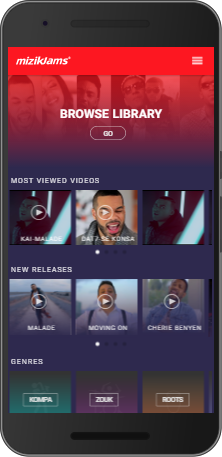
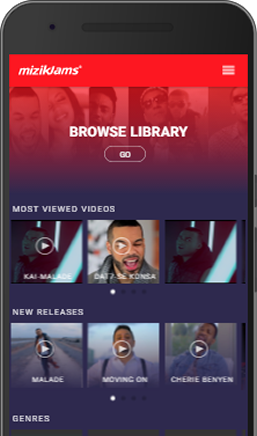
add viewcount

diff --git a/src/pages/main/main.ts b/src/pages/main/main.ts
@@ -22,10 +22,10 @@ export class MainPage {
  
   public  items:any[] = [];
   public  favorite: true;
-  public  video;
+  public  views:any;
   public  deep: true;
-  public  id:any;
-  public  likecount:number;
+  public  id:string;
+  public  heart:number;
   private pageSize: number = 20;
   private pageNumber: number = 1;
   private canLoadMore:boolean = true;
@@ -96,18 +96,30 @@ export class MainPage {
    }
 
 
+  public postViews(id) {
+        this.backandService.create('views',{ views: id }).subscribe(
+                data => {
+                   /*  add to beginning of array
+                    this.items.unshift({ id: null, name: this.name, description: this.description });
+                    console.log(this.items);*/
+                    this.views = id;
+                    console.log(this.views);
+                    //this.description = '';
+                },
+                err => this.backandService.logError(err),
+                () => console.log('OK')
+            );
+    }
 
-
-/*   postLikeCount(id, likecount){
-      this.backandService.update("videos",id).subscribe(
-        data => {
-          console.log(data);
-
-        },
-        err => this.backandService.logError(err),
-       () => console.log('OK')
-     );
-   }*/
+    public postLike(id, heart) {
+        this.backandService.update('videos',id,{ hearts: 2  }).subscribe(
+                data => {
+                 
+                },
+                err => this.backandService.logError(err),
+                () => console.log('OK')
+            );
+    }
 
 
 
@@ -173,6 +185,7 @@ export class MainPage {
 
    
   public playvideo(id,key,title,band,category_id,heart){
+    this.postViews(id);
     this.navCtrl.push(VideodetailsPage,{
         videokey: key,
         title: title,
@@ -180,10 +193,10 @@ export class MainPage {
         category:category_id,
         heart:heart
     }).then(()=>{
-       this.showBanner();
+      
+       console.log(id);
     });
-    
-    console.log(id);
+
   }
 
 

diff --git a/src/pages/intro/intro.scss b/src/pages/intro/intro.scss
@@ -7,45 +7,50 @@
 }
 
 .first{
-    /*background-color:#FD1625*/;
-    @include bgcolor;
+    background-color:#2E294E;
+    //@include bgcolor;
     img{
-       @include imgsize;
+      // @include imgsize;
     }
     h1{
       @include slidetext;
     }
      p{
         color: #fff;
-        font-size: 16px;
+        font-size: 20px;
         letter-spacing: 2px;
-        text-align: justify;
-        width: 300px;
+        text-align: center;
+        width: 320px;
         margin: 0 auto;
-        position: relative;
-        top: 15px;
-        line-height: 30px;
-        font-weight:lighter;
+        font-weight: lighter;
+        padding-bottom: 25px;
     }
 }
 
 .second{
-    /*background-color:#FD1625 #0197F6*/;
-    @include bgcolor;
+    background-color:#2E294E;/*#FD1625 #0197F6*/;
+    //@include bgcolor;
     img{
-        @include imgsize;
+        //@include imgsize;
     }
     h1{
      @include slidetext;
     }
     p{
-     @include slidetext;
+        color: #fff;
+        font-size: 20px;
+        letter-spacing: 2px;
+        text-align: center;
+        width: 320px;
+        margin: 0 auto;
+        font-weight: lighter;
+        padding-bottom: 25px;
     }
 }
 
 .third{
-    /*background-color:#FD1625 #02182B*/;
-    @include bgcolor;
+    background-color:#2E294E;/*#FD1625 #0197F6*/;
+    //@include bgcolor;
     img{
         @include imgsize;
     }
@@ -71,7 +76,8 @@
 }
 
 .flb {
-  background-color:#2E294E;
+  /*background-color:#2E294E;*/
+  @include bgcolor;
   height:100%;
   width:100%;
   animation: pulse 1s linear forwards;

diff --git a/src/pages/front/front.ts b/src/pages/front/front.ts
@@ -51,6 +51,22 @@ export class FrontPage {
     this.navCtrl.push(MainPage)
   }
 
+  public postViews(id) {
+      this.backandService.create('views',{ views: id }).subscribe(
+              data => {
+                 /*   add to beginning of array
+                  this.items.unshift({ id: null, name: this.name, description: this.description });
+                  console.log(this.items);
+                  this.views = id;
+                  console.log(this.views);
+                  //this.description = '';*/
+              },
+              err => this.backandService.logError(err),
+              () => console.log('OK')
+          );
+  }
+
+
  getCategory(){
    this.backandService.getList('categories').subscribe(
       data => {
@@ -75,6 +91,7 @@ export class FrontPage {
 
      
    public playvideo(id,key,title,band,category_id){
+    this.postViews(id);
     this.navCtrl.push(VideodetailsPage,{
         id :id,
         videokey: key,

diff --git a/src/pages/main/main.html b/src/pages/main/main.html
@@ -45,7 +45,7 @@
             <ion-col width-60 class="col1">
               <ul>
                 <li>
-                  <button ion-button color="light" clear outline icon-only (click)="postLikeCount(item.id);">
+                  <button ion-button color="light" clear outline icon-only (click)="postLike(item.id,item.hearts);">
                     <ion-icon ios="ios-heart-outline" md="md-heart-outline"></ion-icon>
                   </button>
                 </li>
@@ -61,7 +61,7 @@
                 <li>
                   <button ion-button color="light" clear icon-only class="viewcount">
                     <ion-icon ios="ios-eye" md="md-eye"></ion-icon>
-                    {{item.category_id}} views             
+                    {{item. views             
                   </button>
                 </li>
                </ul>

diff --git a/src/pages/intro/intro.html b/src/pages/intro/intro.html
@@ -8,16 +8,14 @@
 <ion-content>
 <ion-slides pager="true" parallax="true">
   <ion-slide class="first" padding>
-    <h1>Welcome to Mizikjams!</h1>
+    <p>Discover new and interesting music videos everyday</p>
+    <!--<p>Mizikjams bring you all the latest music videos clips directly through your mobile device</p>-->
     <img src="assets/img/main.png">
-    <p>Mizikjams bring you all the latest music videos clips directly through your mobile device</p>
   </ion-slide>
 
   <ion-slide class="second" padding>
-    <h1>Discover new and interesting videoclips </h1>
+    <p>Browse and search the lastest video clips from our forever expanding library</p>
       <img src="assets/img/playlists.png">
-    <p>Facebook login</p>
-    <p>Playlists Creation</p>
   </ion-slide>
 
   <ion-slide class="third" padding>

diff --git a/src/providers/MediaPlayerService.ts b/src/providers/MediaPlayerService.ts
@@ -19,8 +19,8 @@ export class MediaPlayerService {
     var cfg = {
       title: media.Title,
       mediaid: media.Id,
-      "preload": "auto",
-      "autostart": true,
+      "preload": "none",
+      "autostart":false,
       "controls": true,
       "mute": false,
       "useAudioTag": true,
@@ -39,7 +39,6 @@ export class MediaPlayerService {
       }
     };
 
-
     return Promise.resolve(
       jwplayer("myMediaDiv").setup(cfg))
       .then(
@@ -47,7 +46,7 @@ export class MediaPlayerService {
           setTimeout(() => {
             return playerInstance.play();
           }, 500);
-        }    }
+        } }
       );
   }
 

diff --git a/src/providers/backandService.ts b/src/providers/backandService.ts
@@ -699,6 +699,15 @@ export class BackandService {
             .map(res => res.json());
     }
 
+    public getViews(id){
+        let encodedUrl =encodeURIComponent(JSON.stringify({"id":id}));
+        return this.http.get(this.api_url + '/1/query/data/viewCount?parameters='+encodedUrl,{
+                headers: this.authHeader  
+        })
+            .retry(3)
+            .map(res => res.json());
+    }
+
     private setAuthenticationState(): boolean {
         let storedToken = localStorage.getItem('auth_token');
         if (storedToken){
